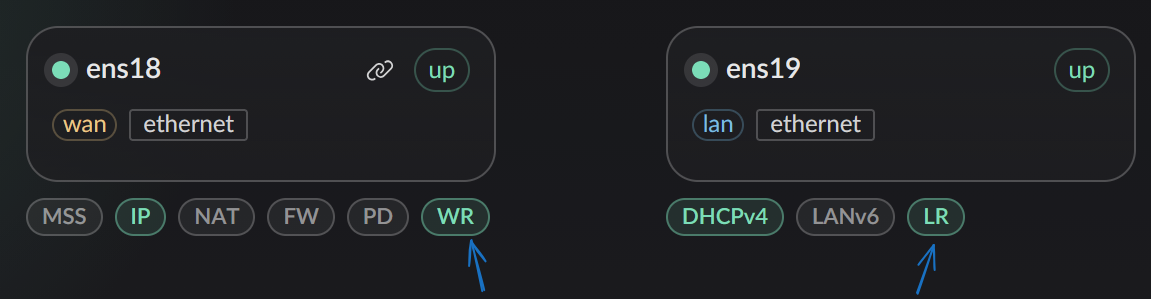
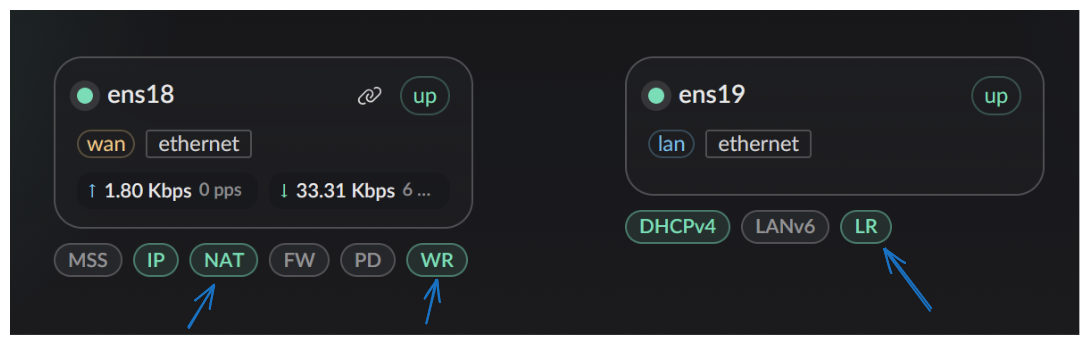
docs: add WAN NAT warning/static NAT guide

diff --git a/getting-started/basic-network-setup.md b/getting-started/basic-network-setup.md
@@ -104,7 +104,18 @@ LAN 口连接内网设备，通常启用 DHCPv4 服务。
 2. 当前路由可以上网.
 3. LAN 侧的设备无法进行上网.
 
-这是需要打开 WAN/LAN 的路由转发服务:
+::: danger 开启 WAN NAT 服务需注意!!!
+打开 `NAT 服务` 前, 假设您是从 `WAN 网卡` 访问的, 需要设置 `静态 NAT 映射`. 否则将会`失联`!
+:::
+
+::: details 静态 NAT 映射方式
+点击左侧菜单 `静态 NAT` 进入 静态 NAT 配置页面.
+点击添加按钮, 按照如下配置, 即可在 wan 进行访问. 如果通过 lan 连接. 则可以忽略
+![](./basic-network-setup/static-nat.png)
+
+:::
+
+这是需要打开 WAN/LAN 的路由转发服务, 以及 NAT 服务:
 ![](./basic-network-setup/wr-lr.png)
 
 ## 验证网络连通性